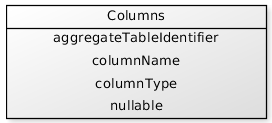
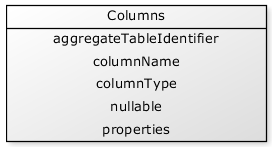
Added in table and column properties.
--HG--
branch : uiexperiment

diff --git a/src/main/java/org/opendatakit/aggregate/odktables/entity/InternalTableEntry.java b/src/main/java/org/opendatakit/aggregate/odktables/entity/InternalTableEntry.java
@@ -9,7 +9,8 @@ import org.opendatakit.common.web.CallingContext;
 /**
  * <p>
  * An InternalTableEntry is a (aggregateTableIdentifier, ownerAggregate
- * Identifier, tableName, modificationNumber, isSynchronized) tuple, where
+ * Identifier, tableName, modificationNumber, isSynchronized, properties) tuple,
+ * where
  * <ul>
  * <li>aggregateTableIdentifier: the globally unique identifer of a table</li>
  * <li>ownerAggregate Identifier: the globally unique identifier of the user who
@@ -18,6 +19,7 @@ import org.opendatakit.common.web.CallingContext;
  * <li>modificationNumber: the current modification number. This should be
  * incremented every time the table is edited.</li>
  * <li>isSynchronized: true if the table is a synchronized table</li>
+ * <li>properties: arbitrary metadata the client wants to store on the table</li>
  * </ul>
  * </p>
  * 
@@ -27,13 +29,14 @@ import org.opendatakit.common.web.CallingContext;
 public class InternalTableEntry extends TypedEntity {
 
     public InternalTableEntry(String aggregateOwnerIdentifier,
-	    String tableName, boolean isSynchronized, CallingContext cc)
-	    throws ODKDatastoreException {
+	    String tableName, boolean isSynchronized, String properties,
+	    CallingContext cc) throws ODKDatastoreException {
 	super(TableEntries.getInstance(cc).newEntity());
 	setAggregateOwnerIdentifier(aggregateOwnerIdentifier);
 	setName(tableName);
 	setModificationNumber(0);
 	setSynchronized(isSynchronized);
+	setProperties(properties);
     }
 
     public InternalTableEntry(Entity entity) throws ODKDatastoreException {
@@ -72,13 +75,22 @@ public class InternalTableEntry extends TypedEntity {
 	entity.set(TableEntries.IS_SYNCHRONIZED, value);
     }
 
+    public String getProperties() {
+	return entity.getString(TableEntries.PROPERTIES);
+    }
+
+    public void setProperties(String value) {
+	entity.set(TableEntries.PROPERTIES, value);
+    }
+
     @Override
     public String toString() {
 	return String
-		.format("InternalTableEntry[aggregateIdentifier=%s, aggregateOwnerIdentifier=%s, name=%s, modificationNumber=%s, isSynchronized=%s",
+		.format("InternalTableEntry[aggregateIdentifier=%s, aggregateOwnerIdentifier=%s, name=%s, modificationNumber=%s, isSynchronized=%s, properties=%s]",
 			getAggregateIdentifier(),
 			getAggregateOwnerIdentifier(), getName(),
-			getModificationNumber(), isSynchronized());
+			getModificationNumber(), isSynchronized(),
+			getProperties());
     }
 
     public static InternalTableEntry fromEntity(Entity entity)

diff --git a/src/main/java/org/opendatakit/aggregate/odktables/entity/InternalColumn.java b/src/main/java/org/opendatakit/aggregate/odktables/entity/InternalColumn.java
@@ -13,13 +13,14 @@ import org.opendatakit.common.web.CallingContext;
 /**
  * <p>
  * An InternalColumn is a (aggregateTableIdentifier, columnName, columnType,
- * nullable) tuple, where
+ * nullable, properties) tuple, where
  * <ul>
  * <li>aggregateTableIdentifier: the globally unique identifier of the table
  * this column belongs to.</li>
  * <li>columnName: the name of the column.</li>
  * <li>columnType: the type of the column. This is a DataField.DataType.</li>
  * <li>nullable: whether the column is allowed to contain a null value.</li>
+ * <li>properties: arbitrary metadata the client wants to store on the column</li>
  * </ul>
  * </p>
  * 
@@ -29,13 +30,14 @@ import org.opendatakit.common.web.CallingContext;
 public class InternalColumn extends TypedEntity {
 
     public InternalColumn(String aggregateTableIdentifier, String columnName,
-	    AttributeType columnType, boolean nullable, CallingContext cc)
-	    throws ODKDatastoreException {
+	    AttributeType columnType, boolean nullable, String properties,
+	    CallingContext cc) throws ODKDatastoreException {
 	super(Columns.getInstance(cc).newEntity());
 	setAggregateTableIdentifier(aggregateTableIdentifier);
 	setName(columnName);
 	setType(columnType);
 	setNullable(nullable);
+	setProperties(properties);
     }
 
     private InternalColumn(Entity entity) throws ODKDatastoreException {
@@ -74,10 +76,19 @@ public class InternalColumn extends TypedEntity {
 	entity.set(Columns.NULLABLE, value);
     }
 
+    public String getProperties() {
+	return entity.getString(Columns.PROPERTIES);
+    }
+
+    public void setProperties(String value) {
+	entity.set(Columns.PROPERTIES, value);
+    }
+
     @Override
     public String toString() {
-	return String.format("InternalColumn[name=%s, type=%s, nullable=%s",
-		getName(), getType(), getNullable());
+	return String.format(
+		"InternalColumn[name=%s, type=%s, nullable=%s, properties=%s]",
+		getName(), getType(), getNullable(), getProperties());
     }
 
     public static InternalColumn fromEntity(Entity entity)

diff --git a/src/main/java/org/opendatakit/aggregate/odktables/commandlogic/synchronize/CreateSynchronizedTableLogic.java b/src/main/java/org/opendatakit/aggregate/odktables/commandlogic/synchronize/CreateSynchronizedTableLogic.java
@@ -4,6 +4,7 @@ import java.util.ArrayList;
 import java.util.Collections;
 import java.util.List;
 
+import org.opendatakit.aggregate.odktables.client.entity.Column;
 import org.opendatakit.aggregate.odktables.client.entity.Modification;
 import org.opendatakit.aggregate.odktables.client.entity.SynchronizedRow;
 import org.opendatakit.aggregate.odktables.client.exception.AggregateInternalErrorException;
@@ -55,6 +56,7 @@ public class CreateSynchronizedTableLogic extends
 	    String tableID = createSynchronizedTable.getTableID();
 	    String requestingUserID = createSynchronizedTable
 		    .getRequestingUserID();
+	    String tableProperties = createSynchronizedTable.getProperties();
 
 	    // retrieve request user
 	    InternalUser requestingUser = users
@@ -78,14 +80,15 @@ public class CreateSynchronizedTableLogic extends
 	    // create the table entry
 	    InternalTableEntry entry = new InternalTableEntry(
 		    aggregateUserIdentifier,
-		    createSynchronizedTable.getTableName(), true, cc);
+		    createSynchronizedTable.getTableName(), true,
+		    tableProperties, cc);
 	    entitiesToSave.add(entry);
 	    // create the columns
-	    for (org.opendatakit.aggregate.odktables.client.entity.Column clientColumn : createSynchronizedTable
-		    .getColumns()) {
+	    for (Column clientColumn : createSynchronizedTable.getColumns()) {
 		InternalColumn column = new InternalColumn(
 			entry.getAggregateIdentifier(), clientColumn.getName(),
-			clientColumn.getType(), clientColumn.isNullable(), cc);
+			clientColumn.getType(), clientColumn.isNullable(),
+			clientColumn.getProperties(), cc);
 		entitiesToSave.add(column);
 	    }
 	    // create the mapping from aggregateTableIdentifier to user's

diff --git a/src/main/java/org/opendatakit/aggregate/odktables/commandlogic/simple/CreateTableLogic.java b/src/main/java/org/opendatakit/aggregate/odktables/commandlogic/simple/CreateTableLogic.java
@@ -41,12 +41,15 @@ public class CreateTableLogic extends CommandLogic<CreateTable> {
 	List<TypedEntity> entitiesToSave = new ArrayList<TypedEntity>();
 	String tableID;
 	try {
+	    // get relation instances
 	    Users users = Users.getInstance(cc);
 	    UserTableMappings cursors = UserTableMappings.getInstance(cc);
 
+	    // get request data
 	    tableID = createTable.getTableID();
 	    String requestingUserID = createTable.getRequestingUserID();
 
+	    // retrieve request user
 	    InternalUser requestingUser = users
 		    .query("CreateTableLogic.execute")
 		    .equal(Users.USER_ID, requestingUserID).get();
@@ -66,13 +69,14 @@ public class CreateTableLogic extends CommandLogic<CreateTable> {
 	    // Create table
 	    InternalTableEntry entry = new InternalTableEntry(
 		    aggregateUserIdentifier, createTable.getTableName(), false,
-		    cc);
+		    null, cc);
 	    entitiesToSave.add(entry);
 	    for (org.opendatakit.aggregate.odktables.client.entity.Column clientColumn : createTable
 		    .getColumns()) {
 		InternalColumn column = new InternalColumn(
 			entry.getAggregateIdentifier(), clientColumn.getName(),
-			clientColumn.getType(), clientColumn.isNullable(), cc);
+			clientColumn.getType(), clientColumn.isNullable(),
+			null, cc);
 		entitiesToSave.add(column);
 	    }
 	    InternalUserTableMapping mapping = new InternalUserTableMapping(

diff --git a/src/main/java/org/opendatakit/aggregate/odktables/relation/Columns.java b/src/main/java/org/opendatakit/aggregate/odktables/relation/Columns.java
@@ -43,6 +43,11 @@ public class Columns extends TypedEntityRelation<InternalColumn> {
      */
     public static String NULLABLE = "NULLABLE";
 
+    /**
+     * The name of the properties field.
+     */
+    public static String PROPERTIES = "PROPERTIES";
+
     // Relation name
     /**
      * The name of the Columns relation.
@@ -72,6 +77,12 @@ public class Columns extends TypedEntityRelation<InternalColumn> {
     private static final Attribute nullable = new Attribute(NULLABLE,
 	    AttributeType.BOOLEAN, false);
 
+    /**
+     * The properties field.
+     */
+    private static final Attribute properties = new Attribute(PROPERTIES,
+	    AttributeType.STRING, true);
+
     private static final List<Attribute> attributes;
     static {
 	attributes = new ArrayList<Attribute>();
@@ -79,6 +90,7 @@ public class Columns extends TypedEntityRelation<InternalColumn> {
 	attributes.add(columnName);
 	attributes.add(columnType);
 	attributes.add(nullable);
+	attributes.add(properties);
     }
     /**
      * The singleton instance of the Columns relation.

diff --git a/src/main/java/org/opendatakit/aggregate/odktables/relation/TableEntries.java b/src/main/java/org/opendatakit/aggregate/odktables/relation/TableEntries.java
@@ -44,6 +44,11 @@ public class TableEntries
      */
     public static final String IS_SYNCHRONIZED = "IS_SYNCHRONIZED";
 
+    /**
+     * The name of the properties field.
+     */
+    public static final String PROPERTIES = "PROPERTIES";
+
     // Relation name:
     /**
      * The name of the TableEntries relation.
@@ -76,6 +81,12 @@ public class TableEntries
     private static final Attribute isSynchronized = new Attribute(
 	    IS_SYNCHRONIZED, AttributeType.BOOLEAN, false);
 
+    /**
+     * The properties field.
+     */
+    private static final Attribute properties = new Attribute(PROPERTIES,
+	    AttributeType.STRING, true);
+
     private static final List<Attribute> attributes;
     static {
 	attributes = new ArrayList<Attribute>();
@@ -83,6 +94,7 @@ public class TableEntries
 	attributes.add(tableName);
 	attributes.add(modificationNumber);
 	attributes.add(isSynchronized);
+	attributes.add(properties);
     }
     /**
      * The singleton instance of the TableEntries.
